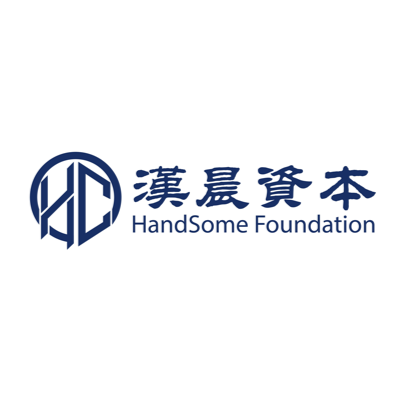
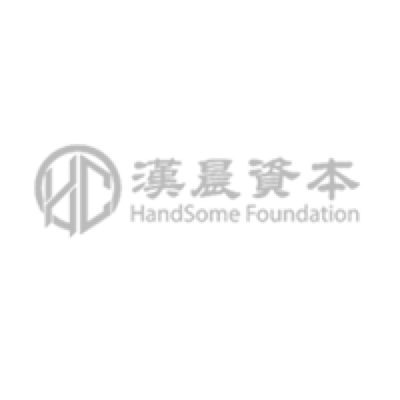
update investor

Changed region(s): [[0.06, 0.36, 0.96, 0.63]]

diff --git a/components/Investor.vue b/components/Investor.vue
@@ -4,11 +4,15 @@
       <h2 class="title section-title inview1 animated fadeInDown delay-0-800">
         {{$t('investor.title')}}
       </h2>
-      <div class="columns is-multiline is-centered is-mobile">
-        <div :key="item.key" v-for="item in list" class="column is-2-desktop is-4-touch">
-          <div class="img-wrapper">
-            <img class="investor-logo" :src="item.logo" alt="">
-          </div>
+      <div class="columns is-multiline is-centered is-mobile is-gapless">
+        <div :key="item.key" v-for="(item, index) in list" class="column is-2-desktop is-3-touch">
+          <a :href="item.url" target="_blank">
+            <div class="img-wrapper" @mouseover="onHover(index)"
+                 @mouseout="onOut(index)">
+              <img v-show="index === hover" class="investor-logo" :src="item.logoActive" alt="">
+              <img v-show="index !== hover" class="investor-logo" :src="item.logo" alt="">
+            </div>
+          </a>
         </div>
       </div>
     </div>
@@ -20,64 +24,92 @@
       name: 'investment',
       data () {
         return {
+          hover: null,
           list: [
             {
               key: 'bitmain',
-              logo: require('~/assets/images/investor/bitmain-black.png')
+              logo: require('~/assets/images/investor/bitmain.png'),
+              logoActive: require('~/assets/images/investor/bitmain-blue.png'),
+              url: 'https://www.bitmain.com/'
             },
-            // {
-            //   key: 'starwinCapital',
-            //   logo: require('~/assets/images/investor/starwin-capital.jpg')
-            // },
+            {
+              key: 'starwinCapital',
+              logo: require('~/assets/images/investor/starwin.png'),
+              logoActive: require('~/assets/images/investor/starwin-blue.png')
+            },
             {
               key: 'nodeCapital',
-              logo: require('~/assets/images/investor/node-capital-black.png')
+              logo: require('~/assets/images/investor/node.png'),
+              logoActive: require('~/assets/images/investor/node-blue.png'),
+              url: 'http://www.nodecap.com/'
             },
             {
               key: 'linkvc',
-              logo: require('~/assets/images/investor/linkvc.png')
+              logo: require('~/assets/images/investor/linkvc.png'),
+              logoActive: require('~/assets/images/investor/linkvc-blue.png'),
+              url: 'http://www.linkvc.com/'
             },
             {
               key: 'genesisCapital',
-              logo: require('~/assets/images/investor/genesis-capital.png')
+              logo: require('~/assets/images/investor/genesis.png'),
+              logoActive: require('~/assets/images/investor/genesis-blue.png')
             },
             {
               key: 'funcityCapital',
-              logo: require('~/assets/images/investor/funcity-capital.jpg')
+              logo: require('~/assets/images/investor/funcity.png'),
+              logoActive: require('~/assets/images/investor/funcity-blue.png'),
+              url: 'http://www.funcityholding.com/'
             },
             {
               key: 'helloCapital',
-              logo: require('~/assets/images/investor/hello-capital-black.png')
+              logo: require('~/assets/images/investor/hello.png'),
+              logoActive: require('~/assets/images/investor/hello-blue.png'),
+              url: 'http://hellocapital.net/'
             },
             {
               key: 'zhizi',
-              logo: require('~/assets/images/investor/zhizi.png')
+              logo: require('~/assets/images/investor/zhizi.png'),
+              logoActive: require('~/assets/images/investor/zhizi-blue.png')
             },
             {
               key: 'hotCapital',
-              logo: require('~/assets/images/investor/hot-capital.png')
+              logo: require('~/assets/images/investor/hot.png'),
+              logoActive: require('~/assets/images/investor/hot-blue.png')
             },
             {
               key: 'dazhi',
-              logo: require('~/assets/images/investor/dazhi.png')
+              logo: require('~/assets/images/investor/dazhi.png'),
+              logoActive: require('~/assets/images/investor/dazhi-blue.png')
             },
             {
               key: 'handsome',
-              logo: require('~/assets/images/investor/handsome.png')
+              logo: require('~/assets/images/investor/handsome.png'),
+              logoActive: require('~/assets/images/investor/handsome-blue.png')
             },
             {
               key: 'hesheng',
-              logo: require('~/assets/images/investor/hesheng.png')
+              logo: require('~/assets/images/investor/hesheng.png'),
+              logoActive: require('~/assets/images/investor/hesheng-blue.png')
             },
             {
               key: 'b100',
-              logo: require('~/assets/images/investor/b100.png')
+              logo: require('~/assets/images/investor/b100.png'),
+              logoActive: require('~/assets/images/investor/b100-blue.png')
             },
             {
               key: 'bn',
-              logo: require('~/assets/images/investor/bn_capital.png')
+              logo: require('~/assets/images/investor/bn.png'),
+              logoActive: require('~/assets/images/investor/bn-blue.png')
             }
           ]
+        }
+      },
+      methods: {
+        onHover (index) {
+          this.hover = index
+        },
+        onOut () {
+          this.hover = null
         }
       }
     }
@@ -100,7 +132,7 @@
 
   .title {
     font-size:36px;
-    font-family:PingFangSC-Medium;
+    font-family: $font-family-main;
     color:rgba(51,51,51,1);
     line-height:50px;
     text-align: center;
@@ -116,9 +148,12 @@
       display: flex;
       align-items: center;
       justify-content: center;
+      &:hover {
+        cursor: pointer;
+      }
       img {
-        max-height: 200px;
-        max-height: 200px;
+        /*max-height: 180px;*/
+        /*max-width: 180px;*/
       }
     }
   }
